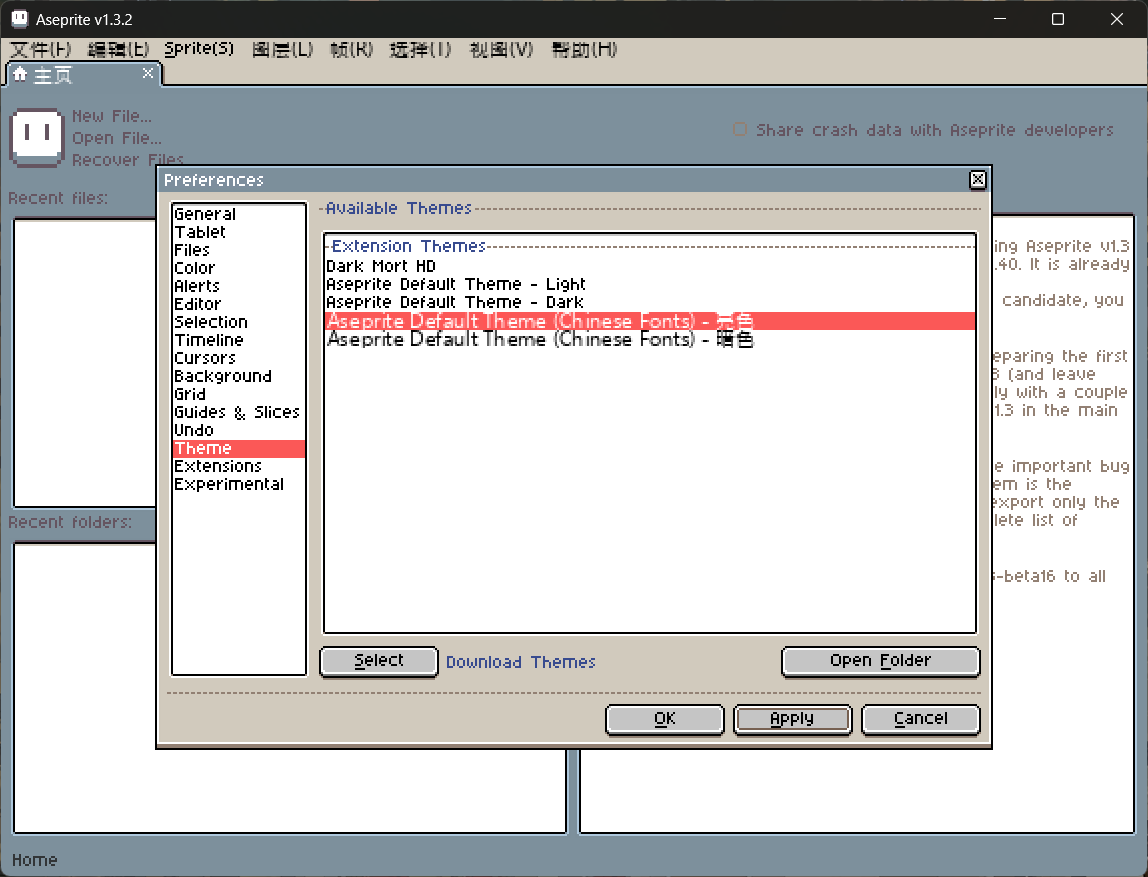
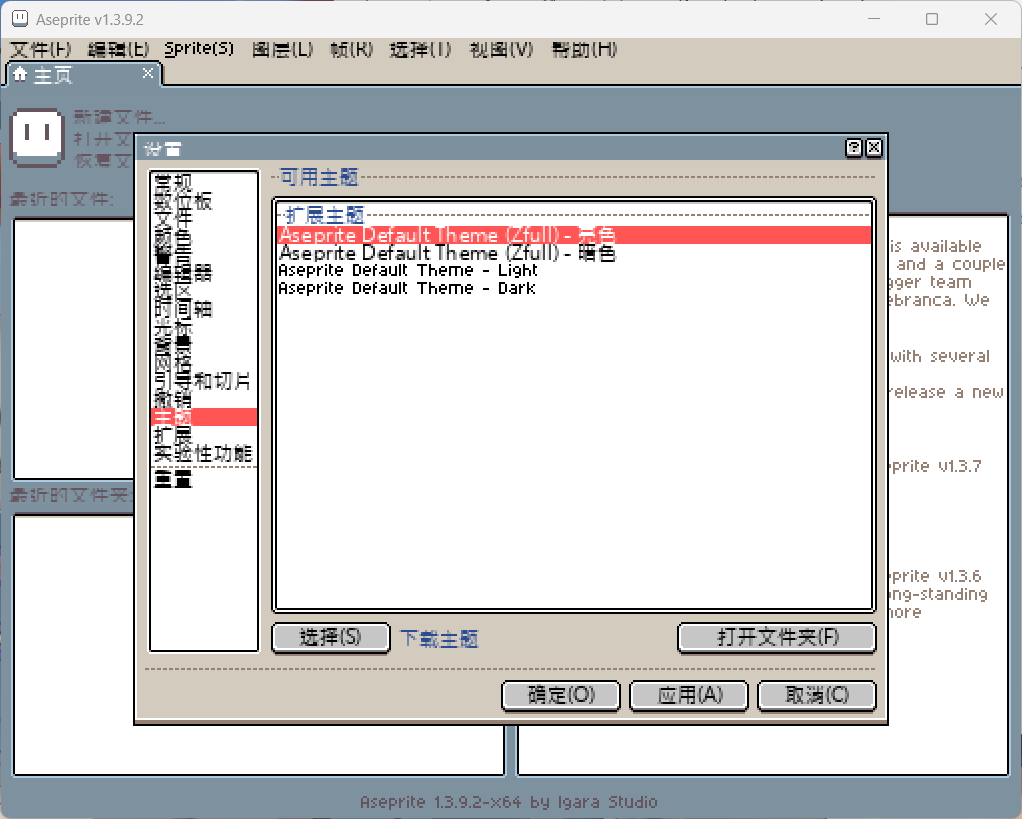
Update readme

diff --git a/readme.md b/readme.md
@@ -1,105 +1,78 @@
-# Aseprite 简体中文拓展 🇨🇳
+# 鲸流的 Aseprite 简体中文拓展
 
 ![](https://raw.githubusercontent.com/Cetaceaqua/Aseprite-Simplified-Chinese-Extension/master/images/showcase.png)
 
 
-*（如果图片不能正常加载，请考虑使用网络代理。）*
 
-## 重要信息
+## ❓ 关于
 
-根据 [Aseprite Translation Project](https://github.com/aseprite/languages)，Aseprite 计划放弃此前采用的社区贡献翻译拓展的本地化形式，转而使用 [Weblate](https://hosted.weblate.org/projects/aseprite/#languages) 托管在线协作翻译，并在未来的版本中**内置**多语言本地化。
+Just-Eleven 在原项目的 [Issues](https://github.com/J-11/Aseprite-Simplified-Chinese/issues/3#issuecomment-1477370090) 中表示已不能继续为 Aseprite 提供汉化，因此我在尝试使用分支仓库维护自己的 Aseprite 简体中文拓展。
 
-很显然我在 Weblate 项目之前开始了我的分支翻译工作，并很**尴尬**的时间点完成了这个项目。
-
-我已经联络了现有的 Weblate 简体中文贡献者，通过提交我的分支中的已完善校对的条目，和他们一起协作改善 Weblate 上的 Aseprite 简体中文本地化。🤝
-
-在 Aseprite 正式更新内置多语言本地化前，我都会在本项目中都会尽可能跟随新版本提供更新。💪
-
-
-
-## 关于
-
-Just-Eleven 在原项目的 [Issues](https://github.com/J-11/Aseprite-Simplified-Chinese/issues/3#issuecomment-1477370090) 中表示已不能继续为 Aseprite 提供汉化，因此我使用这一分支维护自己的 Aseprite 简体中文拓展。
-
-该分支是我在使用 Aseprite 1000 多小时后，结合自己使用其他绘画软件的经验在原汉化项目的基础上制作的修改版本。
+该分支是我在 Aseprite 中畅游了 1000 多小时后，结合自己使用其他绘画软件的经验，在原汉化项目的基础上制作的修改版本。
 
 我不是专业的翻译者，也没有对术语的译名进行严谨的推敲，可以说是对原汉化项目的狗续貂尾，请酌情使用。
 
 
-也可以前往 Steam 社区阅读本文的指南版本：[Steam 社区指南](https://steamcommunity.com/sharedfiles/filedetails/?id=3117755593)
+也可以前往 Steam 社区阅读本文的指南版本（更新可能不及时）：[Steam 社区指南](https://steamcommunity.com/sharedfiles/filedetails/?id=3117755593)
 
 
 
-### ~~广告~~ 推荐
+## ❓ 关于 Aseprite 的内置中文本地化
 
-如果有在 iPad 和 iPhone 上绘制像素画的需求，并希望仍然能够体验到与 Aseprite 相似的工作流，请考虑尝试 [Pixquare](https://www.pixquare.art/)!
+根据 [Aseprite Translation Project](https://github.com/aseprite/languages)，Aseprite 放弃了此前采用的向 Github 仓库提交贡献的本地化形式，转而使用 更成熟的 [Weblate](https://hosted.weblate.org/projects/aseprite/#languages) 平台托管在线协作翻译项目，并在当前版本中**内置**多语言本地化。
 
-Pixquare 有完善的内置**简体中文**本地化支持，由[糖萌芦](https://github.com/TML233)和我维护。
+我有些厌倦了与其他 Weblate 贡献者不断讨论某些词条的翻译方式，因此在为 Weblate 翻译项目提交贡献的同时，我继续维护自己的仓库，以便我自己和与我喜好相似的朋友们继续舒适地使用 Aseprite。
 
-
-
-### 丁卯点阵体
-
-> 「越过长城，走向世界」
-
-[丁卯点阵体](https://atelier-anchor.com/typefaces/dinkie-bitmap)是 **Willie Liu** 设计的一套像素风格的中文字库，提供了 9px 和 7px 双版本字形，覆盖了广阔的简繁中文字符集，非常适合用在 Aseprite 中，相比此前使用 **SolidZORO** 的 Zfull 字体的中文主题，显示效果更加优秀。
-
-得益于设计师 **Willie Liu** 慷慨提供的额外免费授权，在本项目中将与 Aseprite 简体中文拓展一起分发内置丁卯点阵体的 Aseprite 默认主题，敬请期待。
-
-购买丁卯点阵体：[3type](https://3type.cn/fonts/dinkie_bitmap/index.html)
+当前版本的 Aseprite 仍然没有为默认主题加入对中文的字体支持，如果你希望使用内置中文本地化，也可以下载本项目提供的添加了 Zfull 字体的默认主题，让 Aseprite 能够正常显示中文字符。
 
 
 
-## 如何使用？
+## ❓ 如何使用？
 
-1. 下载 Aseprite 简体中文拓展（**aseprite-simplified-chinese-extension.aseprite-extension**）和 Aseprite 默认主题（中文字体）（**aseprite-theme-chinese.aseprite-extension**）文件。
+1. 在 [Github Releases](https://github.com/Cetaceaqua/Aseprite-Simplified-Chinese-Extension/releases/latest) 中下载 **aseprite-simplified-chinese-extension**.aseprite-extension 和 **aseprite-theme-zfull**.aseprite-extension 两个文件。
 
-2. 将 2 个 .aseprite-extension 文件分别**拖放**到 Aseprite 窗口内并**安装**（Install）。
+2. 将两个 .**aseprite-extension** 文件分别拖放到 Aseprite 窗口内并点击**安装**（<u>I</u>nstall）。
 
    ![](https://raw.githubusercontent.com/Cetaceaqua/Aseprite-Simplified-Chinese-Extension/master/images/install_extension.gif)
 
-3. 在 Aseprite 中打开 **Edit** > **Peferences** > **General**，在“**Language**”下拉菜单中选择“**简体中文**”并**应用**（Apply）。
+3. 在 Aseprite 中打开 **Edit** > **Peferences** > **General**，在 **Language** 下拉菜单中选择 **鲸流的中文 (简体）** 并点击**应用**（<u>A</u>pply）。
 
    ![](https://raw.githubusercontent.com/Cetaceaqua/Aseprite-Simplified-Chinese-Extension/master/images/switch_language.png)
 
-4. 在 Aseprite 中打开 **Edit** > **Peferences** > **Theme**，双击选择“**Aseprite Default Theme (Chinese Fonts) - 亮色**”或“**Aseprite Default Theme (Chinese Fonts) - 暗色**”并**应用**（Apply）。
+4. 在 Aseprite 中打开 **Edit** > **Peferences** > **Theme**，双击选择 **Aseprite Default Theme (Zfull) - 亮色** 或 **Aseprite Default Theme (Zfull) - 暗色** 并点击**应用**（<u>A</u>pply）。
 
    ![](https://raw.githubusercontent.com/Cetaceaqua/Aseprite-Simplified-Chinese-Extension/master/images/apply_theme.png)
 
-5. 重新启动 Aseprite，享受！❤
+5. **重新启动** Aseprite，享受！❤
 
    ![](https://raw.githubusercontent.com/Cetaceaqua/Aseprite-Simplified-Chinese-Extension/master/images/showcase.png)
 
 
 
-## 下载
+## 🔗 下载
 
 [Github Releases](https://github.com/Cetaceaqua/Aseprite-Simplified-Chinese-Extension/releases/latest)
 
 
 
 
-## 反馈
-
-[Github Issues](https://github.com/Cetaceaqua/Aseprite-Simplified-Chinese-Extension/issues)
+## 🛠 反馈
 
 QQ 群聊：[82557133](https://qm.qq.com/cgi-bin/qm/qr?_wv=1027&k=WPUrKL-im5ldUElzma-vhWr9BtFCs8SJ&authKey=tx6FtAXQqmgYQqgyduA01P78lCxZlMewXHT%2BHz9%2BWEcY4G51IV71ajmF9xQVzqpX&noverify=0&group_code=82557133)
 
-请附上相应的 Aseprite 内**截图**以便于理解出现问题的文本的位置。
 
 
 
-
-## 致谢
+## 🤝 致谢
 
 - [Just-Eleven](https://github.com/J-11)
 - [糖萌芦](https://github.com/TML233)
-- [威梨](https://weibo.com/u/5048436681) 🍐
-- 纸鸢
+- [纸鸢](https://github.com/Kite95)
+- [狼人小林](https://takwolf.com/)
 
 
 
 
-## 许可证
+## 🚨 许可
 
-[**CC-BY-4.0**](https://creativecommons.org/licenses/by/4.0)
+[CC BY 4.0](https://creativecommons.org/licenses/by/4.0/)
